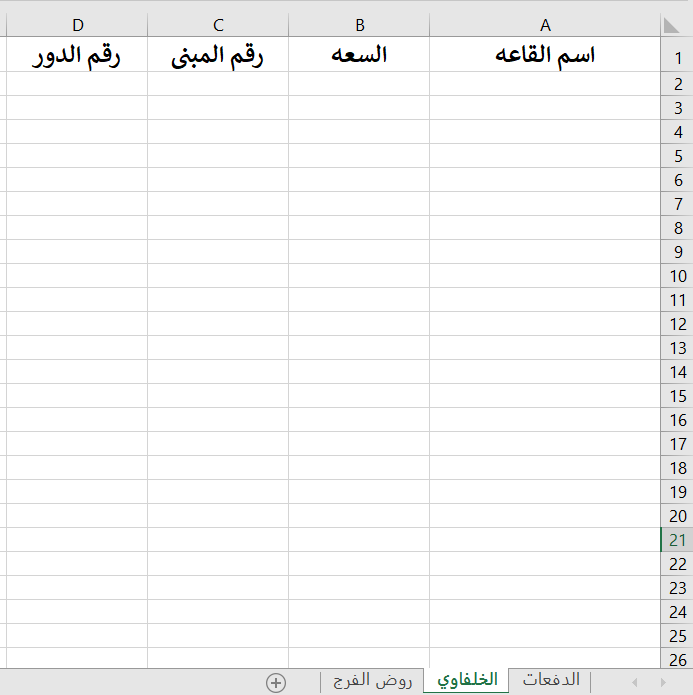
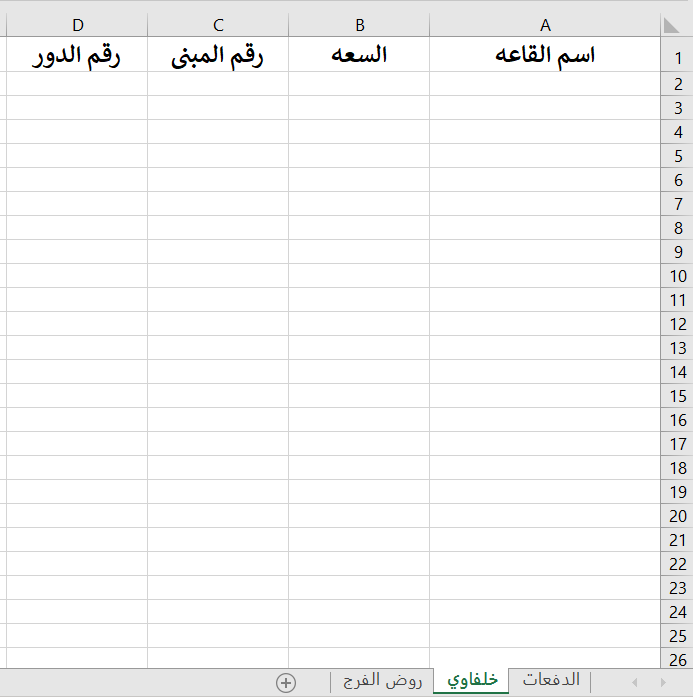
modified

diff --git a/display.py b/display.py
@@ -46,13 +46,9 @@ def print_output(choice1, choice2):
     #     mem.clear()
         # break
 
-def hasSpace(str):
-    return True if ' ' in str else False
-
 def output_the_distribution(choice1):
     name = branch_name[choice1]
-    workbook = xlsxwriter.Workbook(f"قاعات {arabic(name)[::-1]}.xlsx")
-    if hasSpace(name): name = arabic(branch_name[choice1])
+    workbook = xlsxwriter.Workbook(f"قاعات {name}.xlsx")
     worksheet = workbook.add_worksheet(name)
 
     general_format = workbook.add_format()
@@ -129,7 +125,6 @@ def output_the_distribution(choice1):
 def output_the_distribution_with_halls_data(choice1):
     name = branch_name[choice1]
     workbook = xlsxwriter.Workbook(f'hallsWithAllData{choice1}.xlsx')
-    if hasSpace(name): name = arabic(branch_name[choice1])
     worksheet = workbook.add_worksheet(name)
 
     general_format = workbook.add_format()

diff --git a/template.py b/template.py
@@ -4,7 +4,7 @@ def create_halls_template():
     workbook = xlsxwriter.Workbook('نموذج القاعات.xlsx')
 
     groups = workbook.add_worksheet('الدفعات')
-    branch1 = workbook.add_worksheet('الخلفاوي')
+    branch1 = workbook.add_worksheet('خلفاوي')
     branch2 = workbook.add_worksheet('روض الفرج')
 
     header_format = workbook.add_format()
